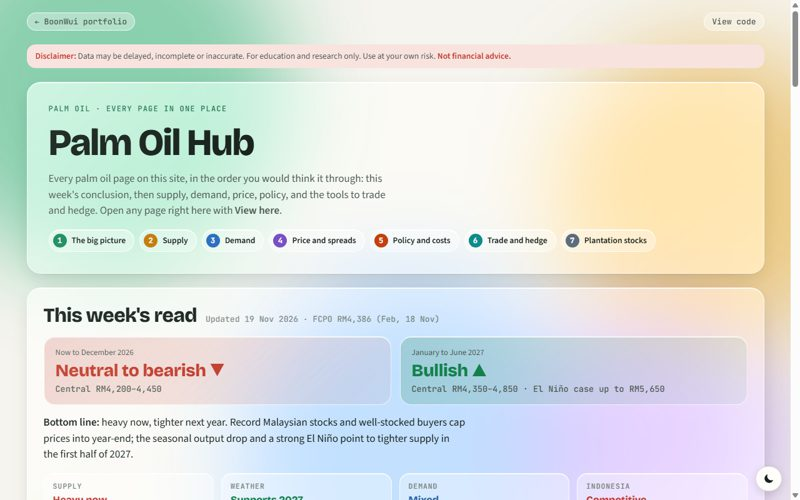
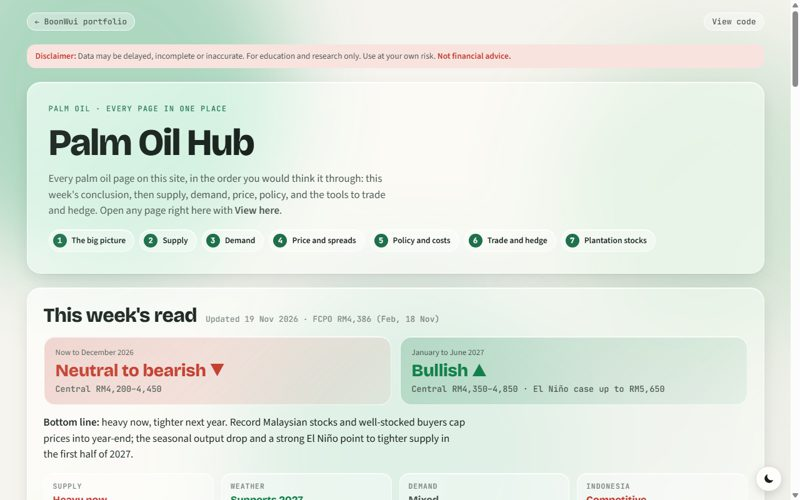
Palm Oil Hub: one green accent, calmer background

diff --git a/palm-hub/index.html b/palm-hub/index.html
@@ -171,7 +171,7 @@
 
   /* ---------- liquid glass ---------- */
   :root { --glass: rgba(255, 255, 255, .52); --glass-2: rgba(255, 255, 255, .34); --glass-edge: rgba(255, 255, 255, .75); --glass-line: rgba(23, 32, 27, .10);
-    --glass-shadow: 0 1px 1px rgba(16, 40, 28, .04), 0 10px 30px -8px rgba(16, 40, 28, .16); --hl: rgba(255, 255, 255, .9); --blob-a: .55; }
+    --glass-shadow: 0 1px 1px rgba(16, 40, 28, .04), 0 10px 30px -8px rgba(16, 40, 28, .16); --hl: rgba(255, 255, 255, .9); --blob-a: .38; }
   @media (prefers-color-scheme: dark) { :root:not([data-theme="light"]) { --glass: rgba(30, 40, 35, .50); --glass-2: rgba(30, 40, 35, .34); --glass-edge: rgba(255, 255, 255, .16);
     --glass-line: rgba(255, 255, 255, .08); --glass-shadow: 0 1px 1px rgba(0, 0, 0, .3), 0 14px 34px -10px rgba(0, 0, 0, .6); --hl: rgba(255, 255, 255, .14); --blob-a: .32; } }
   :root[data-theme="dark"] { --glass: rgba(30, 40, 35, .50); --glass-2: rgba(30, 40, 35, .34); --glass-edge: rgba(255, 255, 255, .16);
@@ -179,10 +179,10 @@
   .app { max-width: 1180px; position: relative; z-index: 1; }
   .bgfx { position: fixed; inset: 0; z-index: 0; pointer-events: none; overflow: hidden; }
   .bgfx i { position: absolute; border-radius: 50%; filter: blur(70px); opacity: var(--blob-a); animation: drift 26s ease-in-out infinite alternate; }
-  .bgfx i:nth-child(1) { width: 46vw; height: 46vw; left: -10vw; top: -12vw; background: #34b27b; }
-  .bgfx i:nth-child(2) { width: 38vw; height: 38vw; right: -8vw; top: 8vh; background: #e3a72f; animation-delay: -8s; }
-  .bgfx i:nth-child(3) { width: 42vw; height: 42vw; left: 28vw; top: 55vh; background: #4b8fe2; animation-delay: -14s; }
-  .bgfx i:nth-child(4) { width: 30vw; height: 30vw; right: 6vw; bottom: -10vh; background: #9b6ee0; animation-delay: -20s; }
+  .bgfx i:nth-child(1) { width: 46vw; height: 46vw; left: -10vw; top: -12vw; background: #3aa877; }
+  .bgfx i:nth-child(2) { width: 38vw; height: 38vw; right: -8vw; top: 8vh; background: #9cc9a8; animation-delay: -8s; }
+  .bgfx i:nth-child(3) { width: 42vw; height: 42vw; left: 28vw; top: 55vh; background: #7fb7a0; animation-delay: -14s; }
+  .bgfx i:nth-child(4) { width: 30vw; height: 30vw; right: 6vw; bottom: -10vh; background: #c9d6cc; animation-delay: -20s; }
   @keyframes drift { to { transform: translate(4vw, 3vh) scale(1.08); } }
   @media (prefers-reduced-motion: reduce) { .bgfx i { animation: none; } * { scroll-behavior: auto !important; } }
   html { scroll-behavior: smooth; }
@@ -226,7 +226,7 @@
   .cgrid > div { background: var(--glass-2); border: 1px solid var(--glass-edge); border-radius: 16px; padding: 12px 14px; display: grid; gap: 5px; align-content: start; box-shadow: inset 0 1px 0 var(--hl); }
   .cgrid p { margin: 0; font-size: 14px; color: var(--ink-2); } .cgrid a { color: var(--accent); font-weight: 600; font-size: 13.5px; text-decoration: none; }
   .ck { font: 600 11.5px var(--mono); text-transform: uppercase; letter-spacing: .08em; color: var(--muted); }
-  .cs { font: 700 16px var(--display); } .cs.bear { color: var(--loss); } .cs.bull { color: var(--gain); } .cs.neut { color: var(--today); }
+  .cs { font: 700 16px var(--display); } .cs.bear { color: var(--loss); } .cs.bull { color: var(--gain); } .cs.neut { color: var(--ink-2); }
 
   /* coming up */
   .calwrap { padding: 16px 18px; display: grid; gap: 12px; }
@@ -235,7 +235,7 @@
   .cal > div { display: grid; grid-template-columns: 52px minmax(0, 1fr); gap: 0 12px; align-items: center; }
   .cal .d { grid-row: span 3; width: 52px; height: 56px; border-radius: 14px; display: grid; place-items: center; align-content: center; background: var(--glass-2); border: 1px solid var(--glass-edge); box-shadow: inset 0 1px 0 var(--hl); }
   .cal .d b { font: 700 20px/1 var(--mono); } .cal .d span { font: 600 10.5px var(--mono); text-transform: uppercase; color: var(--muted); }
-  .cal .k { font: 600 14px var(--body); } .cal .v { font: 500 12.5px var(--mono); color: var(--accent); } .cal .s { font-size: 12.5px; color: var(--muted); }
+  .cal .k { font: 600 14px var(--body); } .cal .v { font: 500 12.5px var(--mono); color: var(--ink-2); } .cal .s { font-size: 12.5px; color: var(--muted); }
 
   /* sticky nav */
   .hnav { position: sticky; top: 10px; z-index: 6; display: flex; gap: 4px; flex-wrap: wrap; align-items: center; padding: 6px; border-radius: 999px; }
@@ -261,12 +261,12 @@
   .th { position: relative; display: block; aspect-ratio: 16 / 10; margin: 8px 8px 0; border-radius: 16px; overflow: hidden; background: var(--grid); }
   .th img { width: 100%; height: 100%; object-fit: cover; object-position: top; display: block; transition: transform .4s; }
   .hc:hover .th img { transform: scale(1.04); }
-  .th::after { content: ""; position: absolute; inset: 0; background: linear-gradient(180deg, transparent 55%, color-mix(in srgb, var(--sc) 28%, transparent)); }
+  .th::after { content: ""; position: absolute; inset: 0; background: linear-gradient(180deg, transparent 60%, rgba(0, 0, 0, .06)); }
   .noimg { height: 100%; display: grid; place-items: center; font: 800 18px var(--display); color: var(--ink-2); padding: 12px; text-align: center; }
   .cad { position: absolute; left: 8px; top: 8px; z-index: 1; font: 600 11px var(--body); padding: 3px 9px; border-radius: 999px; color: #17201b;
     background: rgba(255, 255, 255, .7); border: 1px solid rgba(255, 255, 255, .9); -webkit-backdrop-filter: blur(8px); backdrop-filter: blur(8px); }
   .cad::before { content: ""; display: inline-block; width: 7px; height: 7px; border-radius: 50%; margin-right: 6px; background: var(--muted); vertical-align: 1px; }
-  .cad-daily::before { background: #13a05c; } .cad-weekly::before { background: #2d6fc0; } .cad-monthly::before { background: #c27c0e; } .cad-calculator::before { background: #7a4fc4; }
+  .cad-daily::before, .cad-weekly::before { background: #1f8a5b; } .cad-monthly::before, .cad-calculator::before { background: #8a958f; }
   .hb { padding: 12px 16px 16px; display: grid; gap: 6px; align-content: start; }
   .hb h3 { font: 700 17px var(--display); margin: 0; } .hb h3 a { color: var(--ink); text-decoration: none; } .hb h3 a:hover { color: var(--sc); }
   .hb p { margin: 0; font-size: 14px; color: var(--ink-2); }
@@ -297,7 +297,7 @@
     <span class="eyebrow">Palm oil · every page in one place</span>
     <h1>Palm Oil Hub</h1>
     <p class="lede">Every palm oil page on this site, in the order you would think it through: this week's conclusion, then supply, demand, price, policy, and the tools to trade and hedge. Open any page right here with <b>View here</b>.</p>
-    <nav class="steps" aria-label="Sections in reading order"><a href="#start" style="--sc:#1f8a5b"><b>1</b>The big picture</a><a href="#supply" style="--sc:#c27c0e"><b>2</b>Supply</a><a href="#demand" style="--sc:#2d6fc0"><b>3</b>Demand</a><a href="#price" style="--sc:#7a4fc4"><b>4</b>Price and spreads</a><a href="#policy" style="--sc:#c2410c"><b>5</b>Policy and costs</a><a href="#trade" style="--sc:#0e8a8a"><b>6</b>Trade and hedge</a><a href="#stocks" style="--sc:#5b6b7a"><b>7</b>Plantation stocks</a></nav>
+    <nav class="steps" aria-label="Sections in reading order"><a href="#start" style="--sc:var(--accent)"><b>1</b>The big picture</a><a href="#supply" style="--sc:var(--accent)"><b>2</b>Supply</a><a href="#demand" style="--sc:var(--accent)"><b>3</b>Demand</a><a href="#price" style="--sc:var(--accent)"><b>4</b>Price and spreads</a><a href="#policy" style="--sc:var(--accent)"><b>5</b>Policy and costs</a><a href="#trade" style="--sc:var(--accent)"><b>6</b>Trade and hedge</a><a href="#stocks" style="--sc:var(--accent)"><b>7</b>Plantation stocks</a></nav>
   </header>
 
   <!-- CONCLUSION START: replaced every week by the weekly update job -->
@@ -323,9 +323,9 @@
     <div class="cal" id="cal"></div>
   </section>
 
-  <nav class="hnav glass" aria-label="Jump to section"><a href="#start" data-sec="start" style="--sc:#1f8a5b">Overview</a><a href="#supply" data-sec="supply" style="--sc:#c27c0e">Supply</a><a href="#demand" data-sec="demand" style="--sc:#2d6fc0">Demand</a><a href="#price" data-sec="price" style="--sc:#7a4fc4">Price</a><a href="#policy" data-sec="policy" style="--sc:#c2410c">Policy</a><a href="#trade" data-sec="trade" style="--sc:#0e8a8a">Trade</a><a href="#stocks" data-sec="stocks" style="--sc:#5b6b7a">Plantation</a><input id="hq" type="text" placeholder="Find a page…" aria-label="Find a page"></nav>
+  <nav class="hnav glass" aria-label="Jump to section"><a href="#start" data-sec="start" style="--sc:var(--accent)">Overview</a><a href="#supply" data-sec="supply" style="--sc:var(--accent)">Supply</a><a href="#demand" data-sec="demand" style="--sc:var(--accent)">Demand</a><a href="#price" data-sec="price" style="--sc:var(--accent)">Price</a><a href="#policy" data-sec="policy" style="--sc:var(--accent)">Policy</a><a href="#trade" data-sec="trade" style="--sc:var(--accent)">Trade</a><a href="#stocks" data-sec="stocks" style="--sc:var(--accent)">Plantation</a><input id="hq" type="text" placeholder="Find a page…" aria-label="Find a page"></nav>
 
-  <section class="hsec" id="start" aria-labelledby="start-h" style="--sc:#1f8a5b">
+  <section class="hsec" id="start" aria-labelledby="start-h" style="--sc:var(--accent)">
     <div class="shead"><span class="snum">1</span><div><h2 id="start-h">The big picture</h2><p class="intro">Where is the market and where is it heading? Start here, then go down the page for the detail behind each view.</p></div></div>
     <div class="grid">
         <article class="hc glass" data-q="palm oil at a glance every palm signal on one page: supply, demand, prices and weather, each read with a simple rule.">
@@ -352,7 +352,7 @@
     <div class="viewer glass" hidden><div class="vbar"><span class="vt"></span><a class="vo" href="#" target="_blank" rel="noopener">Open in new tab ↗</a><button type="button" class="pill ghost vclose">Close</button></div><iframe title="Page preview" loading="lazy"></iframe></div>
     <p class="next"><a href="#supply">Next: Supply ↓</a></p>
   </section>
-  <section class="hsec" id="supply" aria-labelledby="supply-h" style="--sc:#c27c0e">
+  <section class="hsec" id="supply" aria-labelledby="supply-h" style="--sc:var(--accent)">
     <div class="shead"><span class="snum">2</span><div><h2 id="supply-h">Supply</h2><p class="intro">How much oil is coming? Weather today decides output 6 to 12 months later. MPOB and GAPKI show what was produced and stocked.</p></div></div>
     <div class="grid">
         <article class="hc glass" data-q="palm oil weather monitor rainfall against normal in the main palm regions and the 16-day forecast.">
@@ -379,7 +379,7 @@
     <div class="viewer glass" hidden><div class="vbar"><span class="vt"></span><a class="vo" href="#" target="_blank" rel="noopener">Open in new tab ↗</a><button type="button" class="pill ghost vclose">Close</button></div><iframe title="Page preview" loading="lazy"></iframe></div>
     <p class="next"><a href="#demand">Next: Demand ↓</a></p>
   </section>
-  <section class="hsec" id="demand" aria-labelledby="demand-h" style="--sc:#2d6fc0">
+  <section class="hsec" id="demand" aria-labelledby="demand-h" style="--sc:var(--accent)">
     <div class="shead"><span class="snum">3</span><div><h2 id="demand-h">Demand</h2><p class="intro">Who is buying? India and China decide most of the swing in exports; biodiesel takes a growing share at home.</p></div></div>
     <div class="grid">
         <article class="hc glass" data-q="world palm oil demand imports, use and stocks for china, india, pakistan, the eu and others (usda).">
@@ -401,7 +401,7 @@
     <div class="viewer glass" hidden><div class="vbar"><span class="vt"></span><a class="vo" href="#" target="_blank" rel="noopener">Open in new tab ↗</a><button type="button" class="pill ghost vclose">Close</button></div><iframe title="Page preview" loading="lazy"></iframe></div>
     <p class="next"><a href="#price">Next: Price and spreads ↓</a></p>
   </section>
-  <section class="hsec" id="price" aria-labelledby="price-h" style="--sc:#7a4fc4">
+  <section class="hsec" id="price" aria-labelledby="price-h" style="--sc:var(--accent)">
     <div class="shead"><span class="snum">4</span><div><h2 id="price-h">Price and spreads</h2><p class="intro">Is palm cheap or dear? Buyers switch between oils on price: palm&#x27;s discount to soybean oil and its spread to gasoil drive demand.</p></div></div>
     <div class="grid">
         <article class="hc glass" data-q="veg oil &amp; energy monitor brent, diesel and the ringgit; palm&#x27;s spread to gasoil (pogo) and the soybean oil discount.">
@@ -423,7 +423,7 @@
     <div class="viewer glass" hidden><div class="vbar"><span class="vt"></span><a class="vo" href="#" target="_blank" rel="noopener">Open in new tab ↗</a><button type="button" class="pill ghost vclose">Close</button></div><iframe title="Page preview" loading="lazy"></iframe></div>
     <p class="next"><a href="#policy">Next: Policy and costs ↓</a></p>
   </section>
-  <section class="hsec" id="policy" aria-labelledby="policy-h" style="--sc:#c2410c">
+  <section class="hsec" id="policy" aria-labelledby="policy-h" style="--sc:var(--accent)">
     <div class="shead"><span class="snum">5</span><div><h2 id="policy-h">Policy and costs</h2><p class="intro">What moves the export price? Indonesia&#x27;s export levy and duty change every month and shift demand between Indonesia and Malaysia.</p></div></div>
     <div class="grid">
         <article class="hc glass" data-q="indonesia palm oil export tax estimate next month&#x27;s reference price, bracket, levy and duty by product.">
@@ -440,7 +440,7 @@
     <div class="viewer glass" hidden><div class="vbar"><span class="vt"></span><a class="vo" href="#" target="_blank" rel="noopener">Open in new tab ↗</a><button type="button" class="pill ghost vclose">Close</button></div><iframe title="Page preview" loading="lazy"></iframe></div>
     <p class="next"><a href="#trade">Next: Trade and hedge ↓</a></p>
   </section>
-  <section class="hsec" id="trade" aria-labelledby="trade-h" style="--sc:#0e8a8a">
+  <section class="hsec" id="trade" aria-labelledby="trade-h" style="--sc:var(--accent)">
     <div class="shead"><span class="snum">6</span><div><h2 id="trade-h">Trade and hedge</h2><p class="intro">Acting on the view: size a futures trade, hedge a physical position, price a swap or an option.</p></div></div>
     <div class="grid">
         <article class="hc glass" data-q="fcpo trade calculator profit and loss, fees, margin, break-even and position size for fcpo.">
@@ -477,7 +477,7 @@
     <div class="viewer glass" hidden><div class="vbar"><span class="vt"></span><a class="vo" href="#" target="_blank" rel="noopener">Open in new tab ↗</a><button type="button" class="pill ghost vclose">Close</button></div><iframe title="Page preview" loading="lazy"></iframe></div>
     <p class="next"><a href="#stocks">Next: Plantation stocks ↓</a></p>
   </section>
-  <section class="hsec" id="stocks" aria-labelledby="stocks-h" style="--sc:#5b6b7a">
+  <section class="hsec" id="stocks" aria-labelledby="stocks-h" style="--sc:var(--accent)">
     <div class="shead"><span class="snum">7</span><div><h2 id="stocks-h">Plantation stocks</h2><p class="intro">How does the stock market price it? Bursa plantation shares react to MPOB surprises.</p></div></div>
     <div class="grid">
         <article class="hc glass" data-q="mpob day event study how plantation stocks moved around each mpob report against the surprise.">
